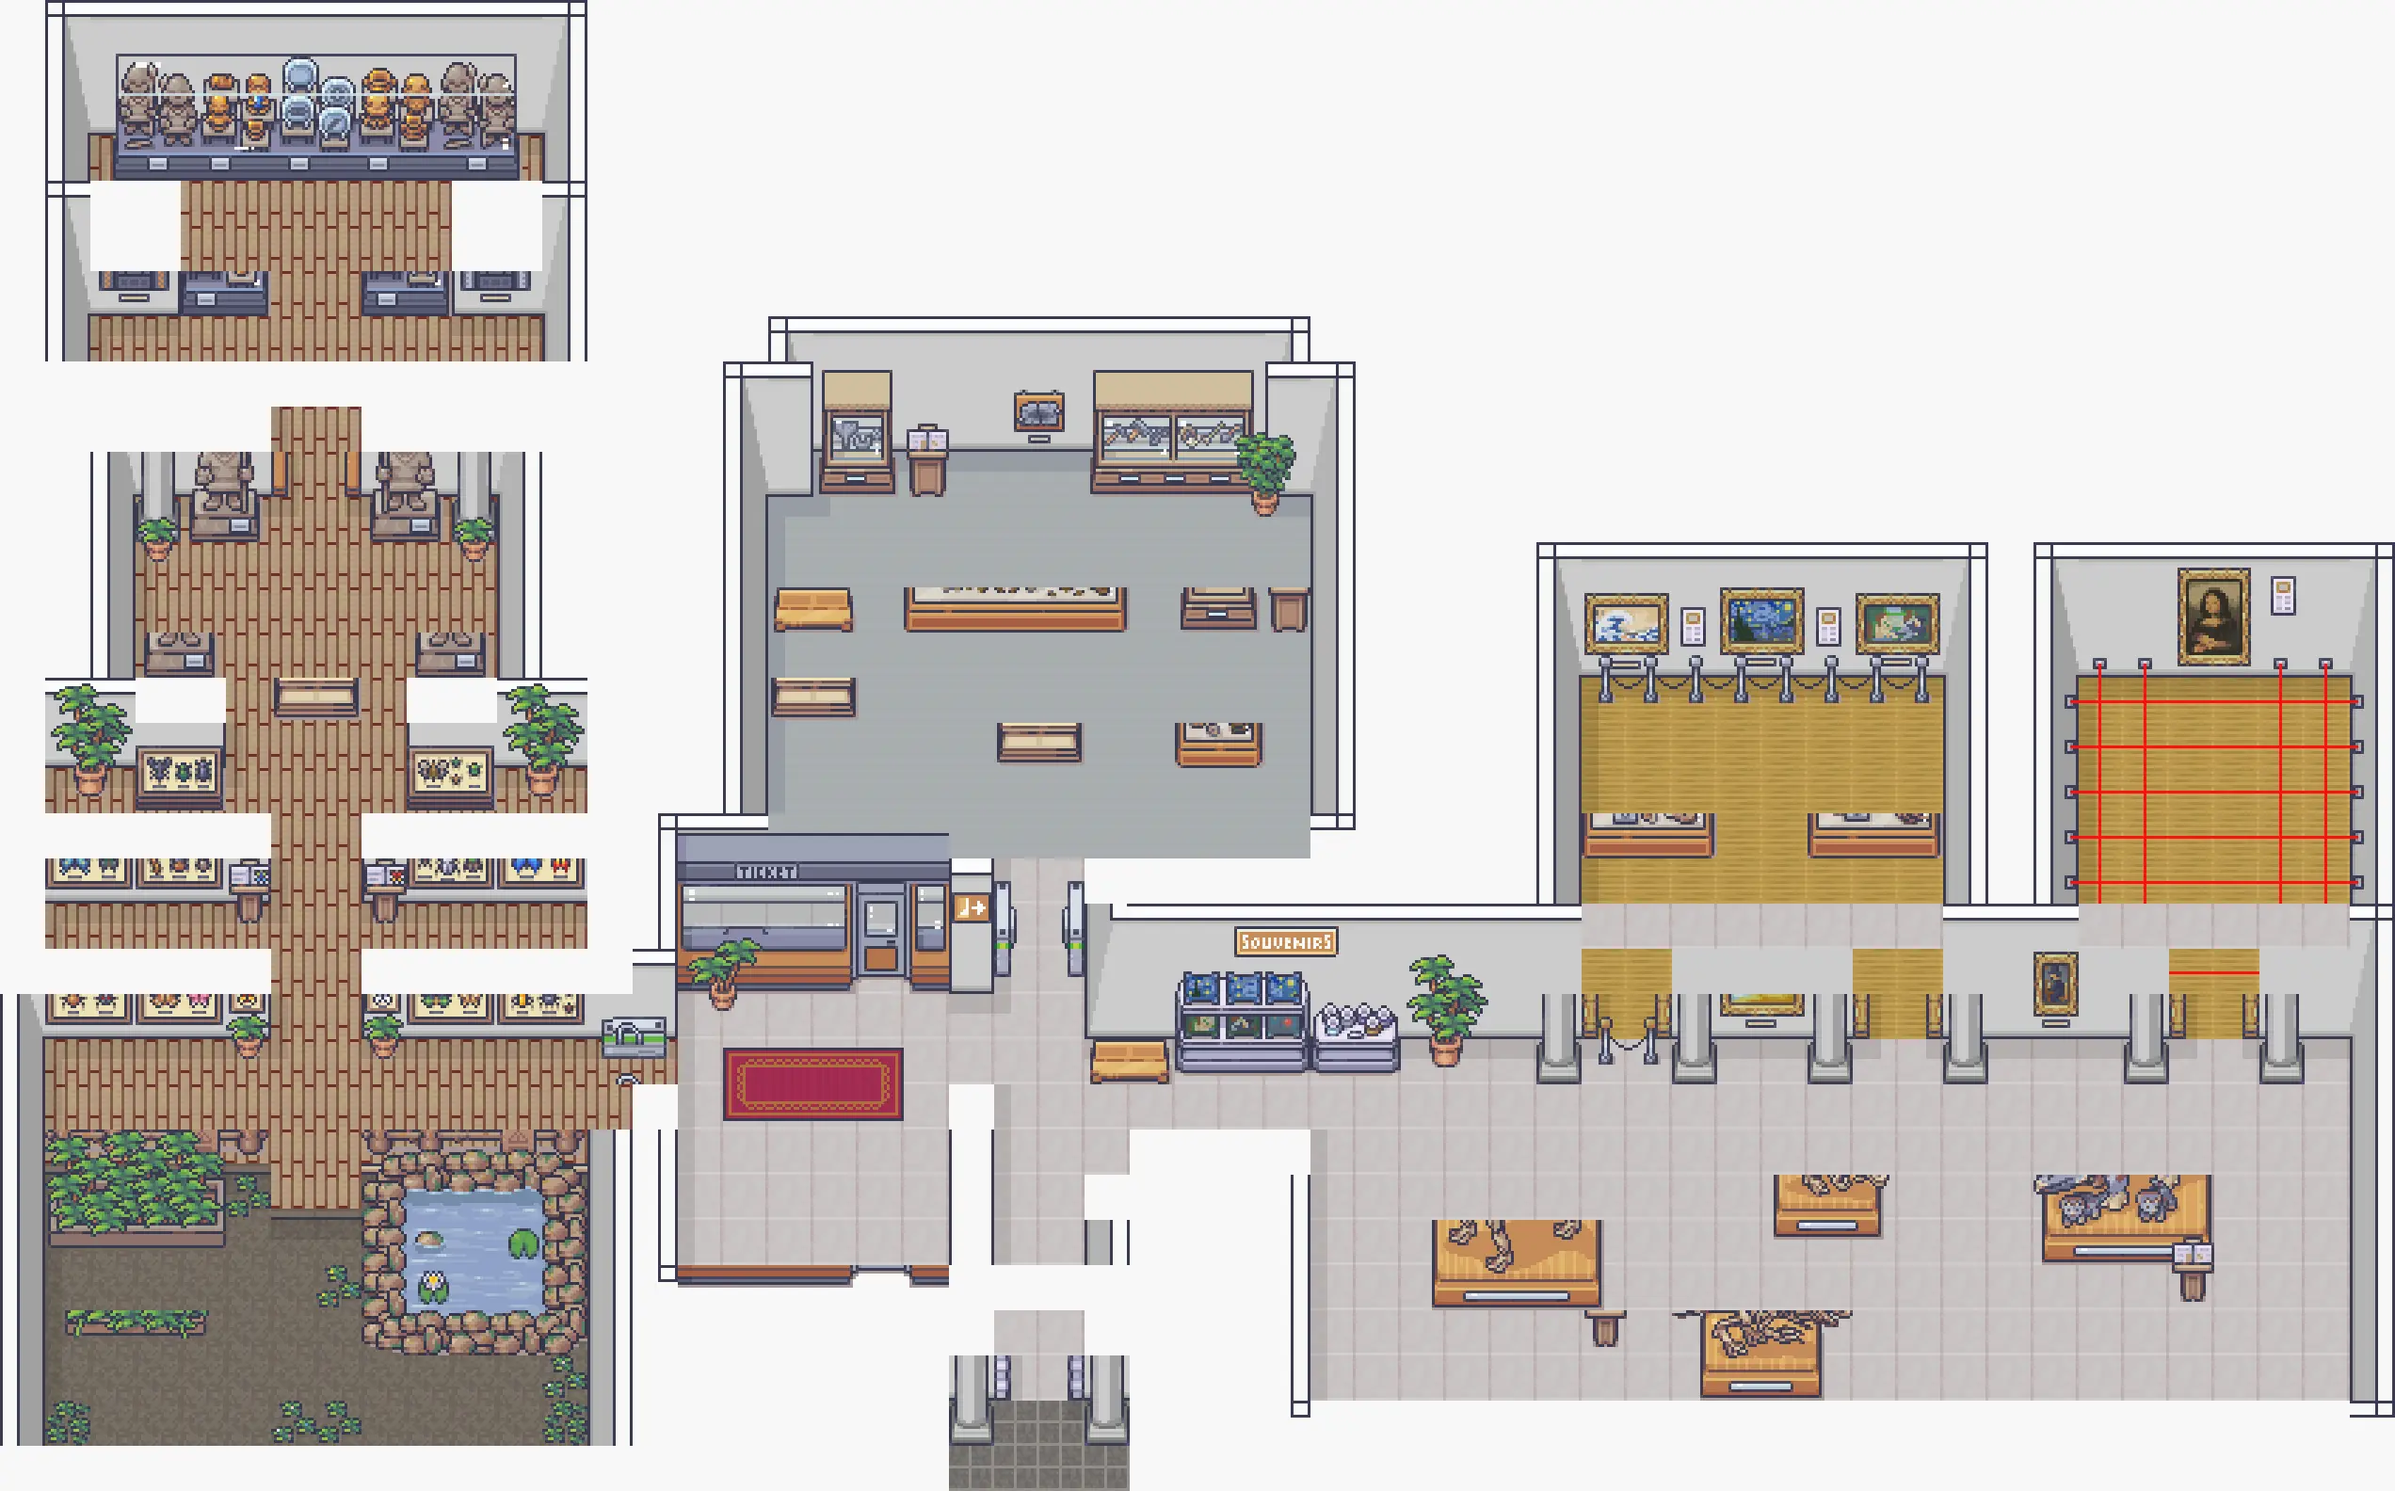
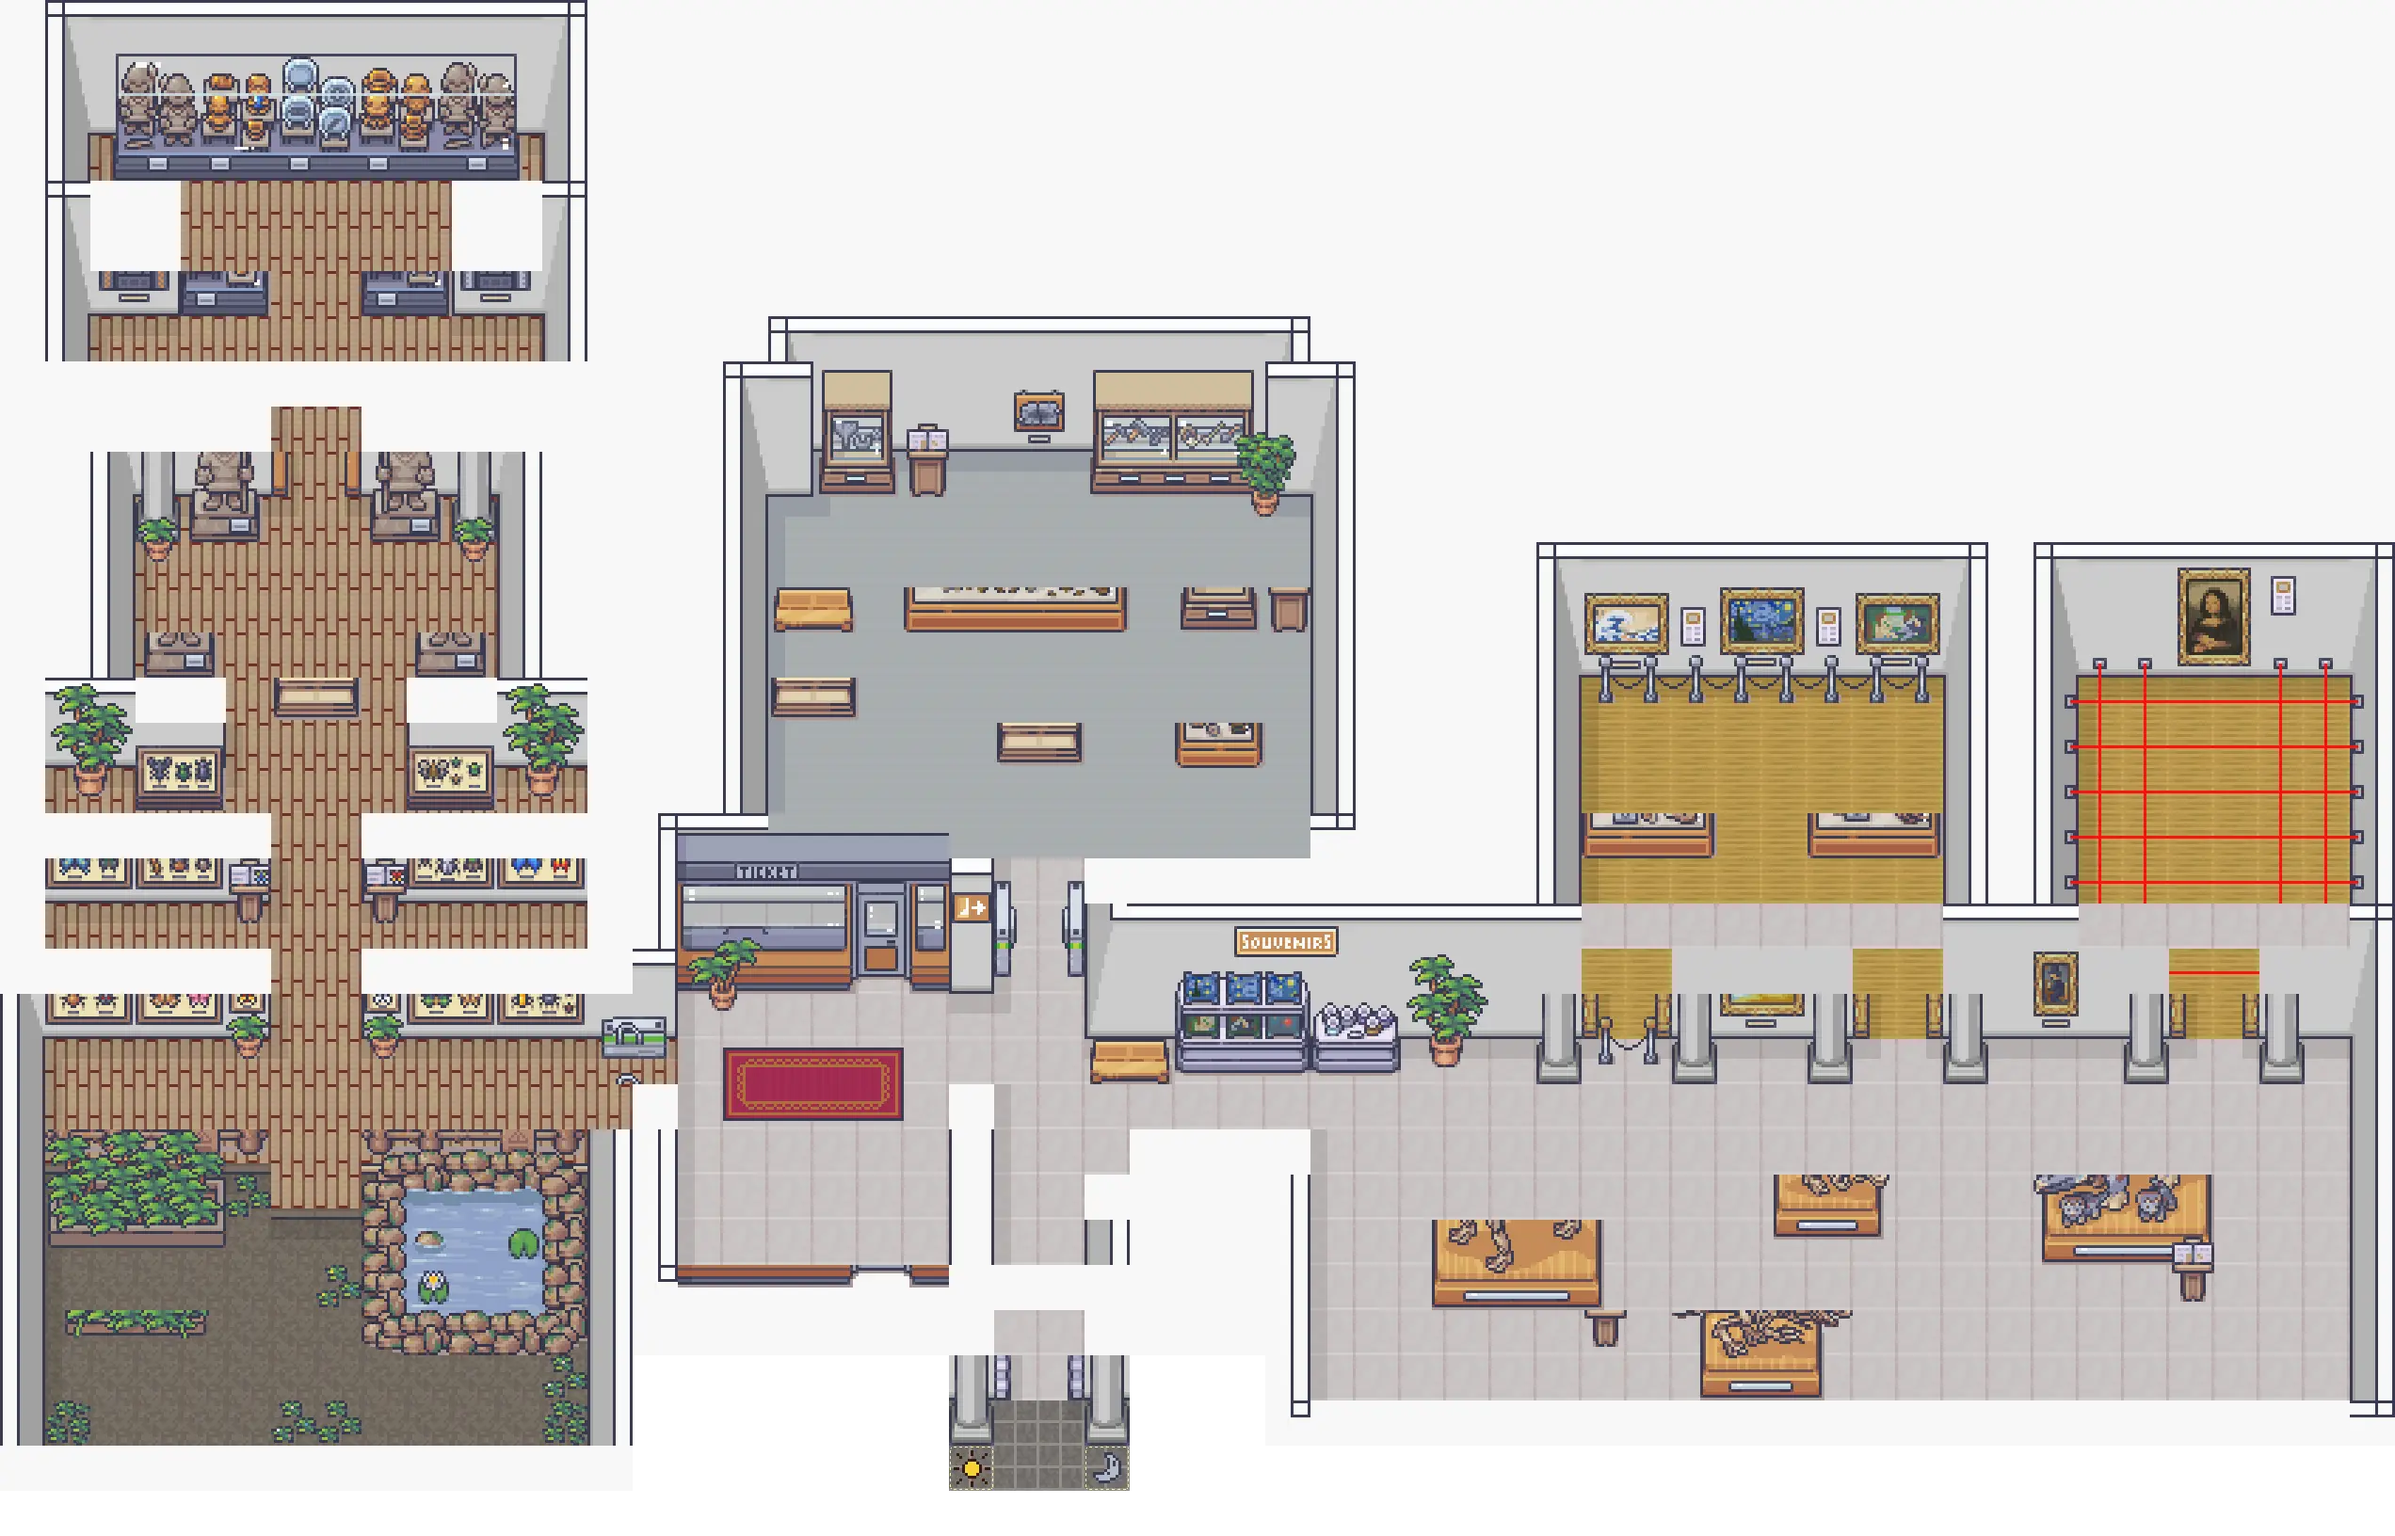
add menu at museum entrance

diff --git a/src/lib/Game.svelte b/src/lib/Game.svelte
@@ -48,7 +48,6 @@
 	let playerOrientation: number;
 	let controlOrientation: number;
 	let stepsAchieved: Array<boolean>;
-	let leftEntrance: boolean;
 
 	function reset() {
 		position = initialPosition;
@@ -58,7 +57,6 @@
 		playerOrientation = 2; // start down
 		controlOrientation = -1; // no control
 		stepsAchieved = stepsImages.map((path) => false);
-		leftEntrance = false;
 	}
 
 	function display(p5: p5Type) {
@@ -349,8 +347,8 @@
 		p5.keyPressed = () => {
 			if (p5.keyCode == p5.ENTER) {
 				if (!lightOn) {
-					reset();
 					lightOn = true;
+					stepsAchieved = stepsAchieved.map((step) => false);
 				}
 			} else if (!inputs.includes(true) && p5.keyIsDown(88) && !lightOn) {
 				stepsAchieved = stepsAchieved.map((step, index, array) => updateStep(step, index, array));
@@ -402,18 +400,14 @@
 				position = math.add(position, motion);
 			}
 			if (isPlayerInColor(logicMap, position, [255, 0, 0, 255])) {
-				if ($gameState != 'victory') {
-					if (stepsAchieved.every((v) => v)) $gameState = 'victory';
-					else if (lightOn && leftEntrance) lightOn = false;
-				}
-			} else {
-				leftEntrance = true;
+				if ($gameState != 'victory' && stepsAchieved.every((v) => v)) $gameState = 'victory';
 			}
 
-			// logic
-			cycle = (cycle + 1) % 6;
+			if (isPlayerInColor(logicMap, position, [0, 255, 0, 255])) lightOn = false;
+			if (isPlayerInColor(logicMap, position, [0, 0, 255, 255])) lightOn = true;
 
 			// display
+			cycle = (cycle + 1) % 6;
 			display(p5);
 		};
 	};
